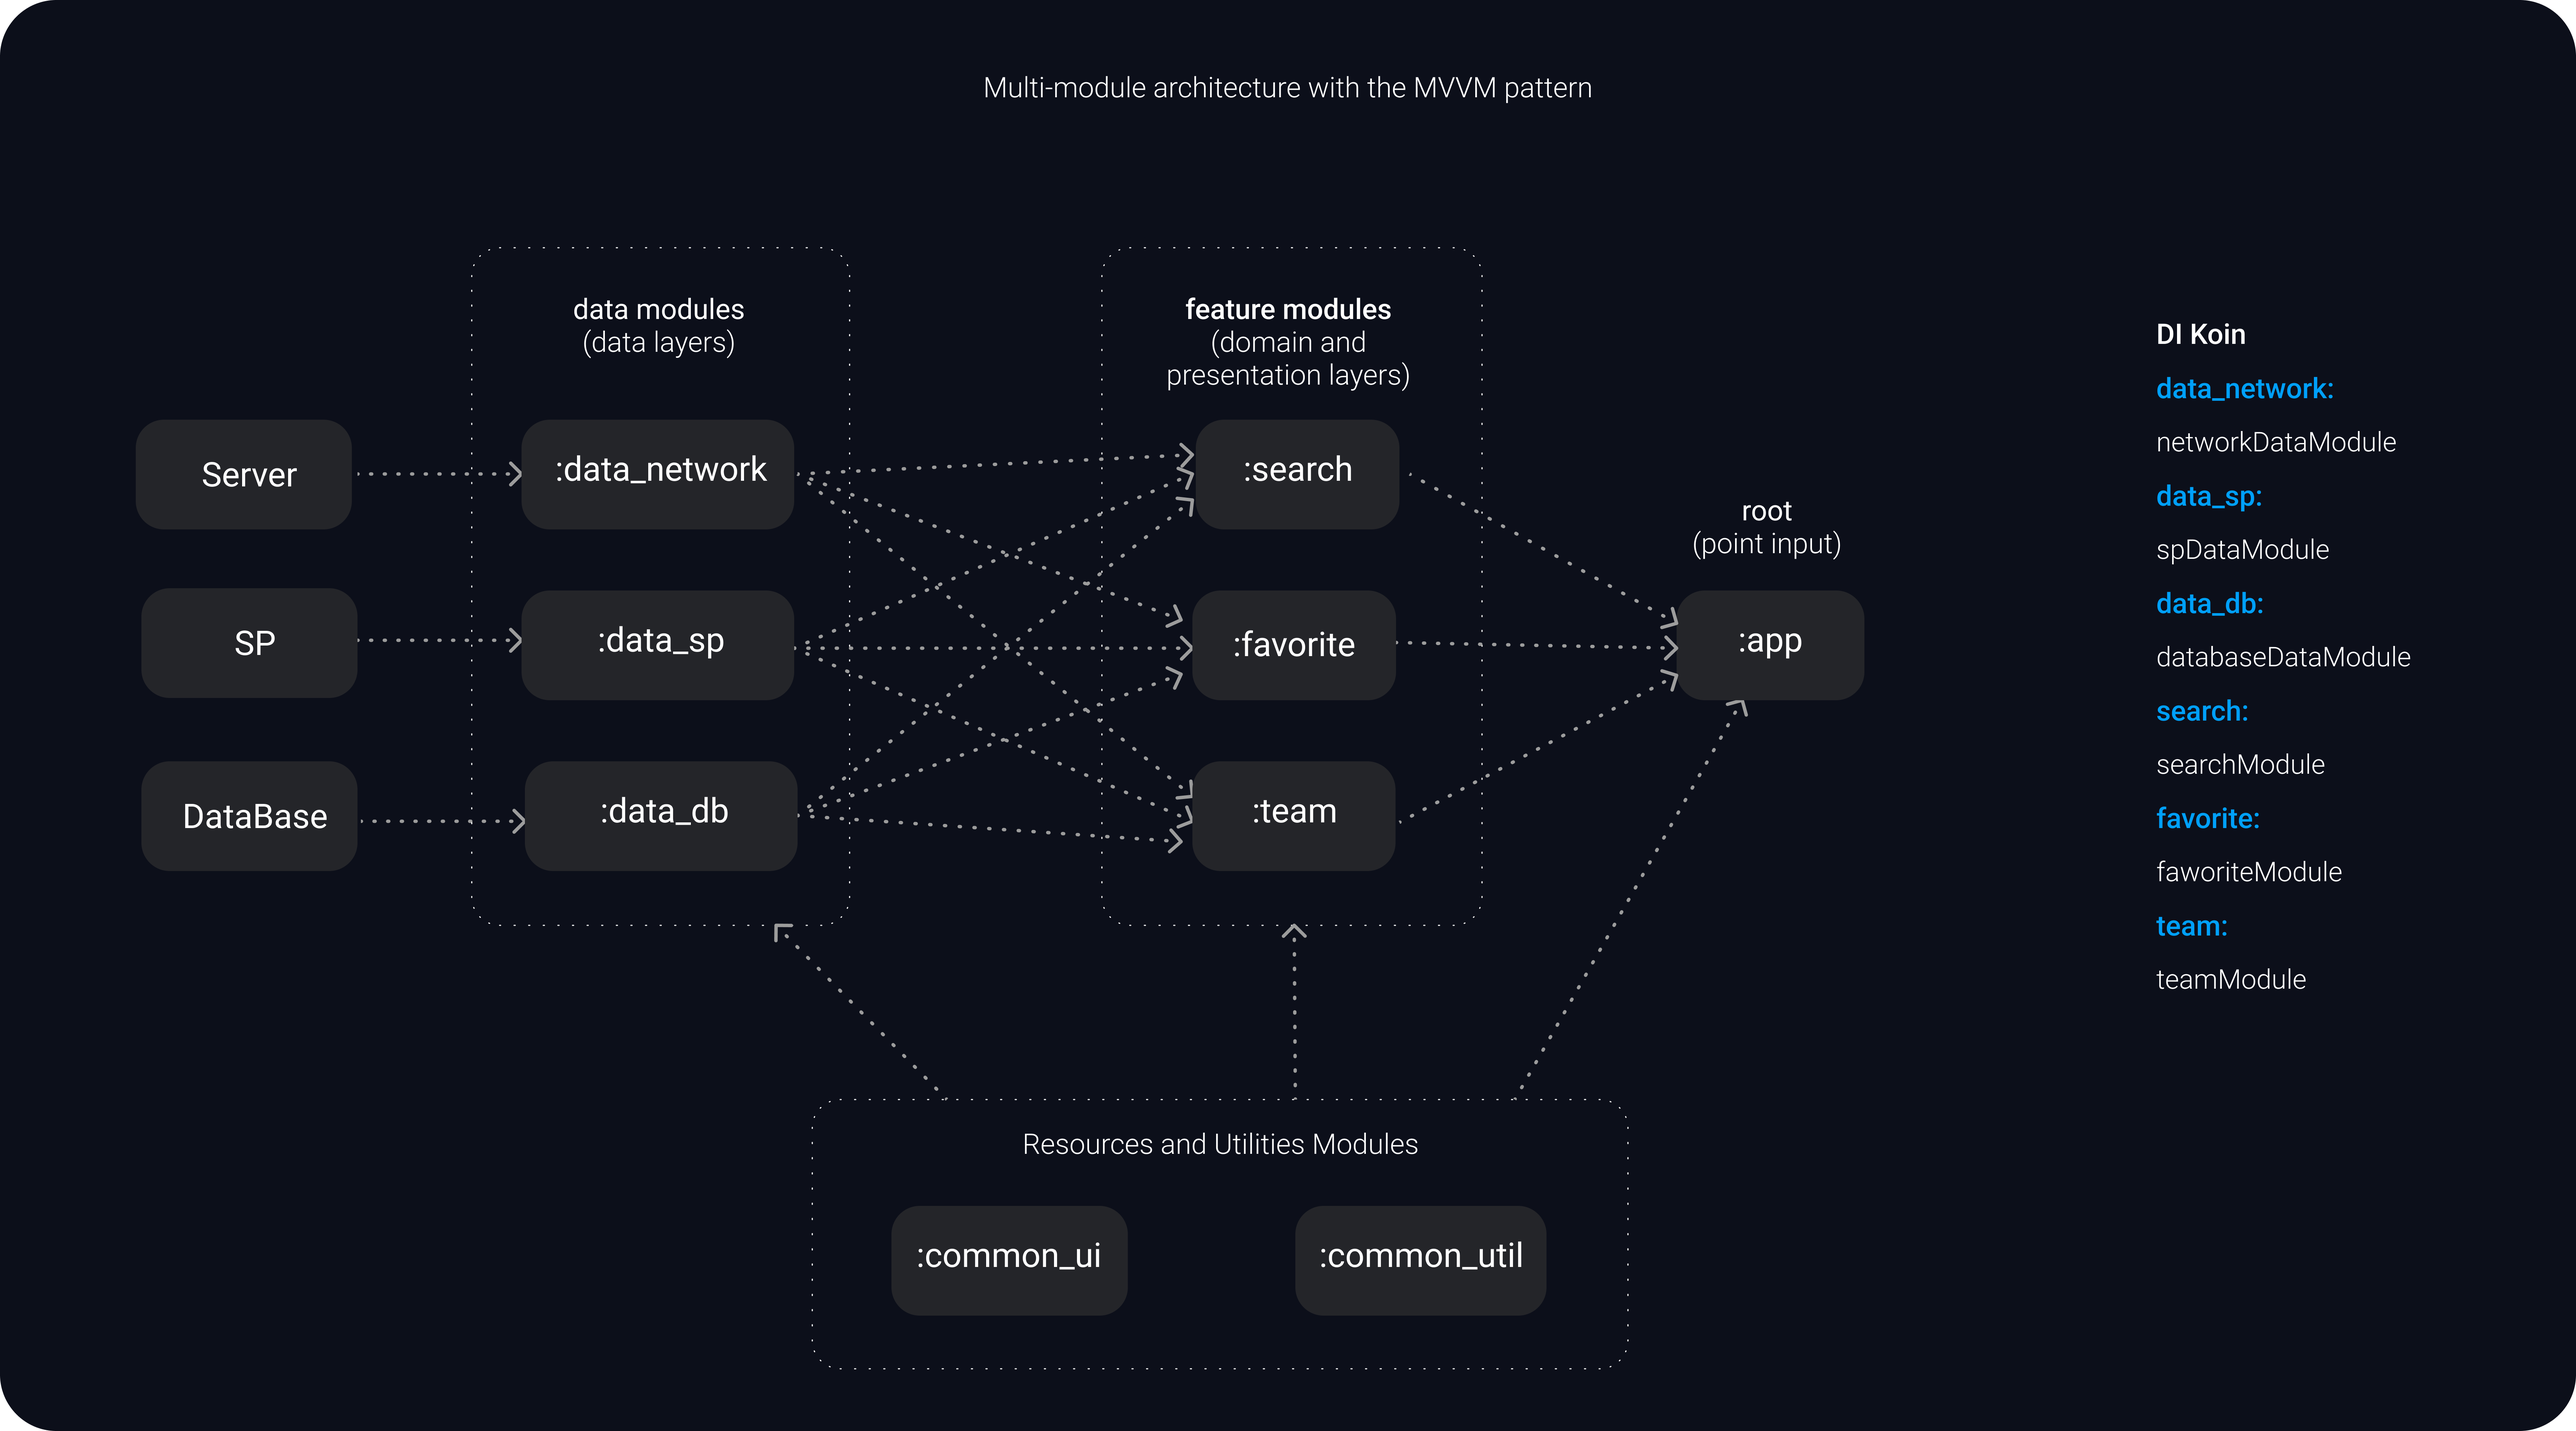
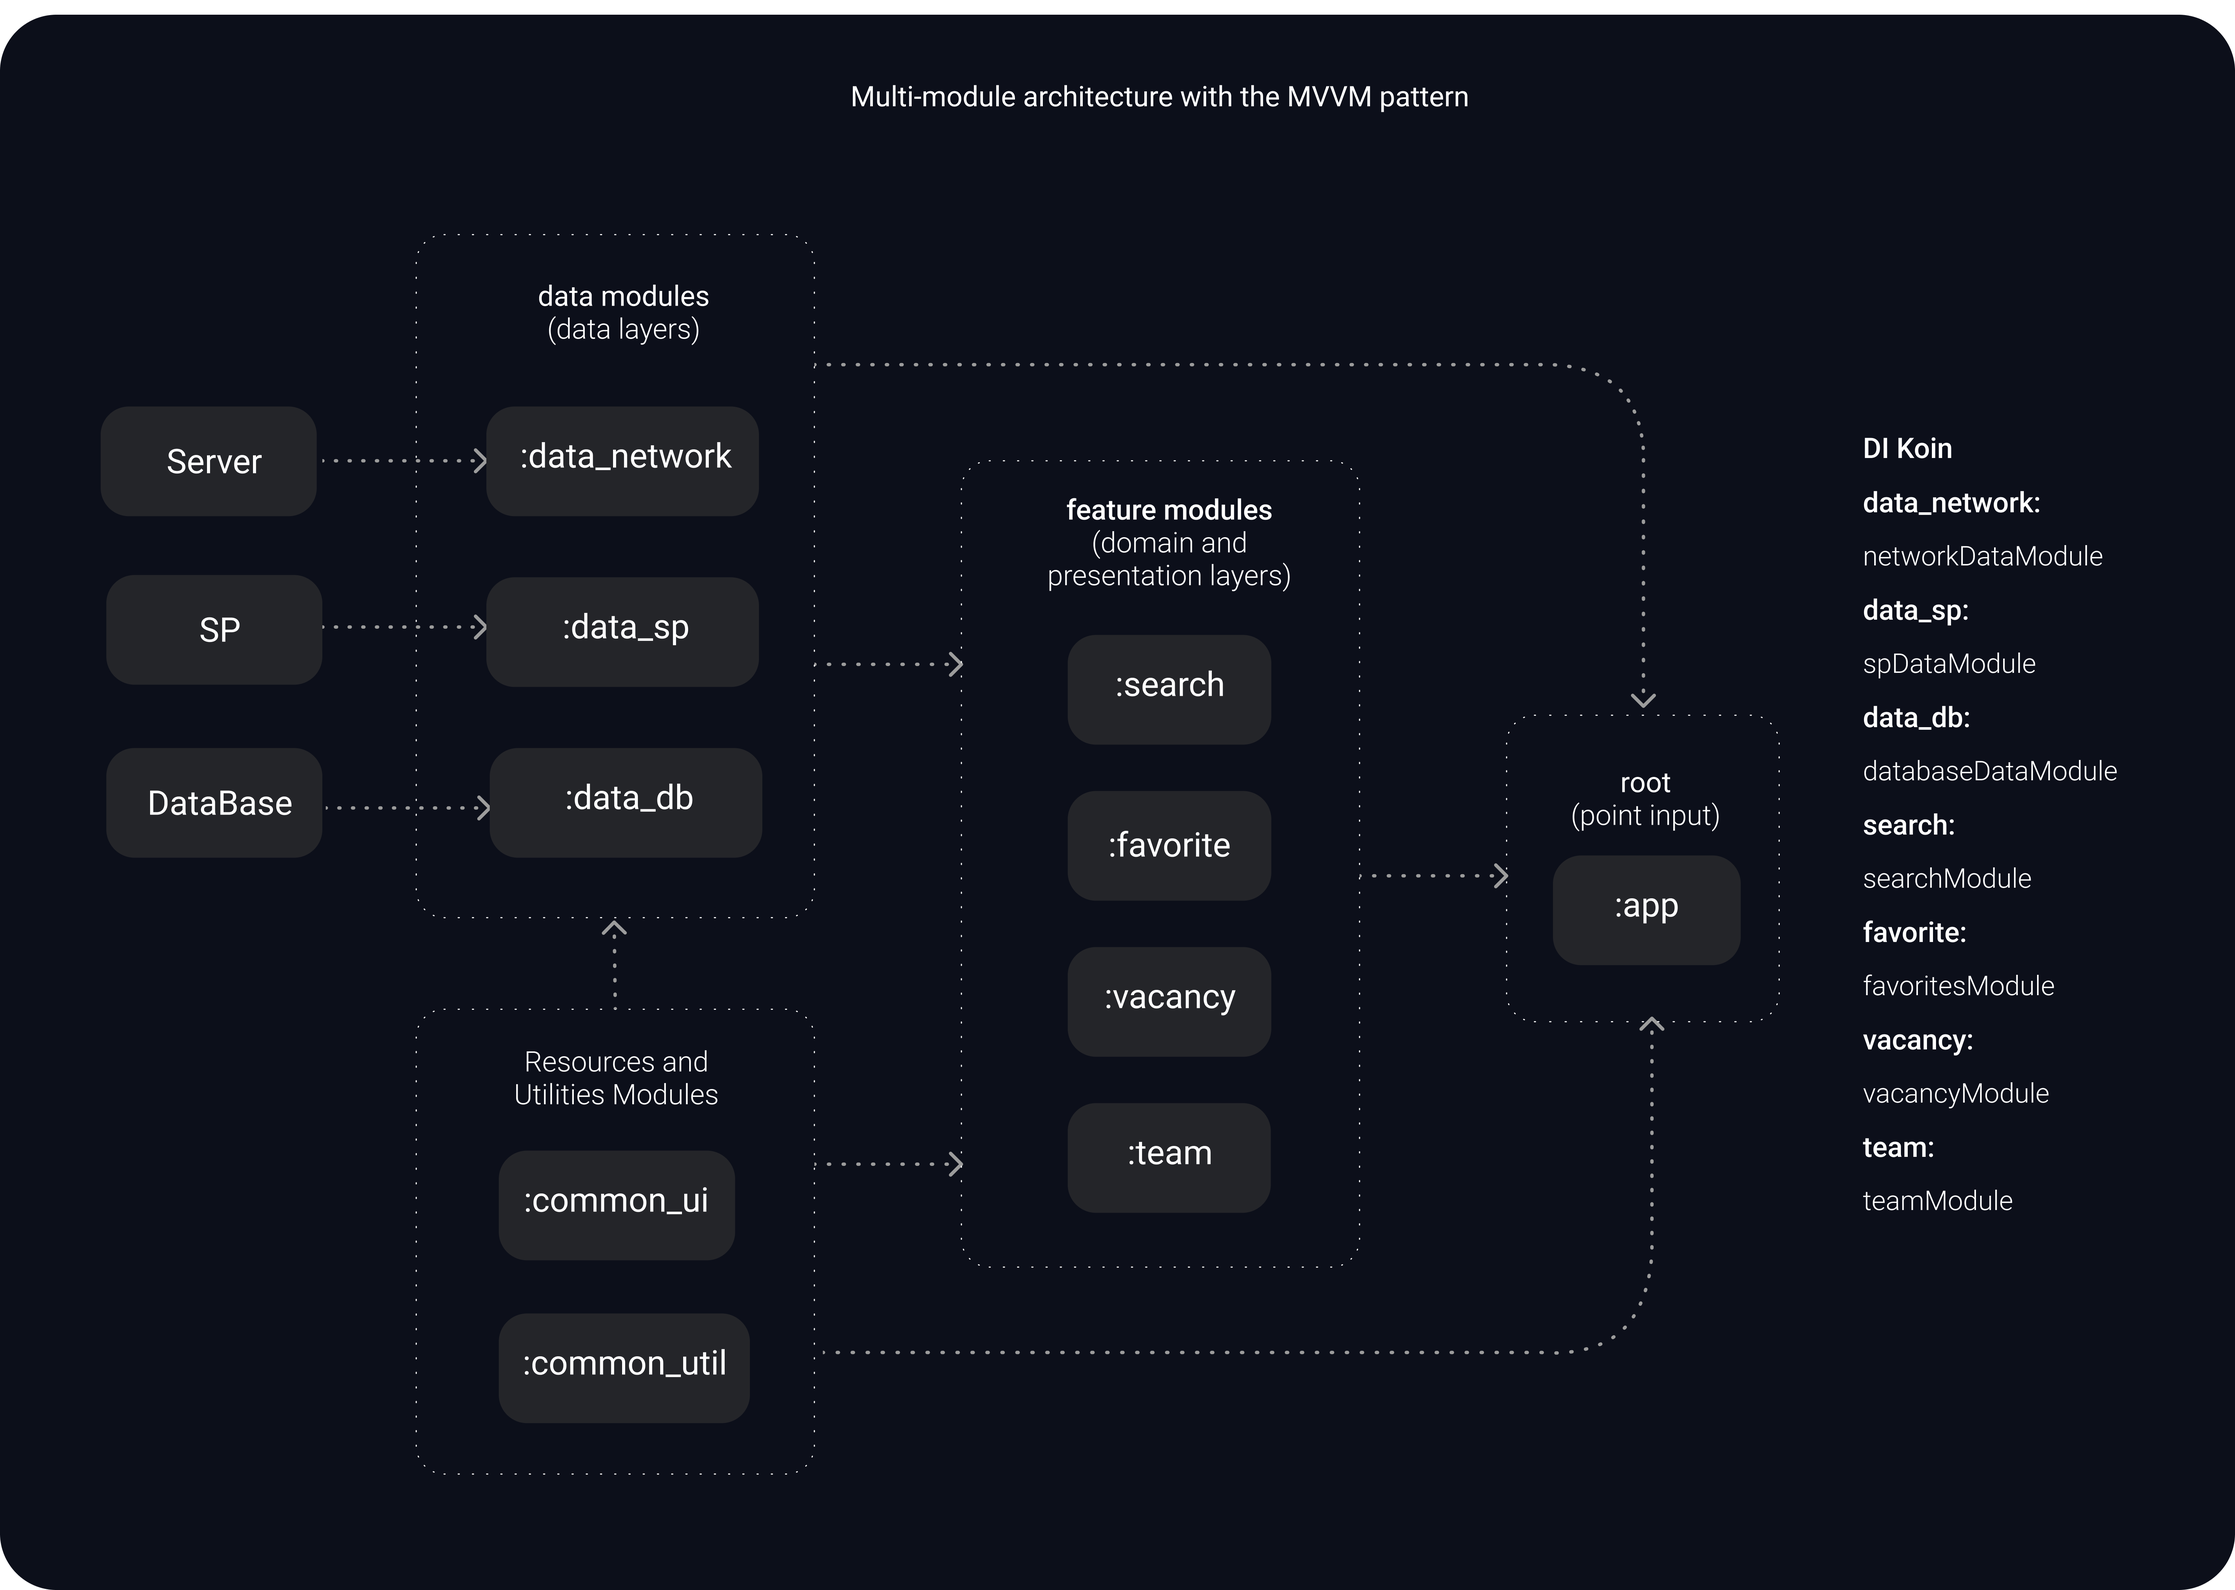
Make feature vacancy

diff --git a/vacancy/src/main/java/ru/practicum/android/diploma/vacancy/presentation/ui/VacancyFragment.kt b/vacancy/src/main/java/ru/practicum/android/diploma/vacancy/presentation/ui/VacancyFragment.kt
@@ -1,0 +1,36 @@
+package ru.practicum.android.diploma.vacancy.presentation.ui
+
+import android.os.Bundle
+import androidx.fragment.app.Fragment
+import android.view.LayoutInflater
+import android.view.View
+import android.view.ViewGroup
+import androidx.navigation.fragment.findNavController
+import ru.practicum.android.diploma.vacancy.databinding.FragmentVacancyBinding
+
+class VacancyFragment : Fragment() {
+
+    private var _binding: FragmentVacancyBinding? = null
+    private val binding get() = _binding!!
+
+    override fun onCreateView(
+        inflater: LayoutInflater,
+        container: ViewGroup?,
+        savedInstanceState: Bundle?
+    ): View? {
+        _binding = FragmentVacancyBinding.inflate(inflater, container, false)
+        return binding.root
+    }
+
+    override fun onViewCreated(view: View, savedInstanceState: Bundle?) {
+        super.onViewCreated(view, savedInstanceState)
+        binding.buttonLeftVacancy.setOnClickListener {
+            findNavController().navigateUp()
+        }
+    }
+
+    override fun onDestroyView() {
+        super.onDestroyView()
+        _binding = null
+    }
+}

diff --git a/vacancy/src/androidTest/java/ru/practicum/android/diploma/vacancy/ExampleInstrumentedTest.kt b/vacancy/src/androidTest/java/ru/practicum/android/diploma/vacancy/ExampleInstrumentedTest.kt
@@ -1,0 +1,24 @@
+package ru.practicum.android.diploma.vacancy
+
+import androidx.test.platform.app.InstrumentationRegistry
+import androidx.test.ext.junit.runners.AndroidJUnit4
+
+import org.junit.Test
+import org.junit.runner.RunWith
+
+import org.junit.Assert.*
+
+/**
+ * Instrumented test, which will execute on an Android device.
+ *
+ * See [testing documentation](http://d.android.com/tools/testing).
+ */
+@RunWith(AndroidJUnit4::class)
+class ExampleInstrumentedTest {
+    @Test
+    fun useAppContext() {
+        // Context of the app under test.
+        val appContext = InstrumentationRegistry.getInstrumentation().targetContext
+        assertEquals("ru.practicum.android.diploma.vacancy.test", appContext.packageName)
+    }
+}

diff --git a/app/src/main/java/ru/practicum/android/diploma/root/App.kt b/app/src/main/java/ru/practicum/android/diploma/root/App.kt
@@ -9,6 +9,7 @@ import ru.practicum.android.diploma.data.sp.di.spDataModule
 import ru.practicum.android.diploma.favorites.di.favoritesModule
 import ru.practicum.android.diploma.search.di.searchModule
 import ru.practicum.android.diploma.team.di.teamModule
+import ru.practicum.android.diploma.vacancy.di.vacancyModule
 
 class App : Application() {
 
@@ -23,6 +24,7 @@ class App : Application() {
                 dbDataModule,
                 searchModule,
                 favoritesModule,
+                vacancyModule,
                 teamModule,
             )
         }

diff --git a/vacancy/src/test/java/ru/practicum/android/diploma/vacancy/ExampleUnitTest.kt b/vacancy/src/test/java/ru/practicum/android/diploma/vacancy/ExampleUnitTest.kt
@@ -1,0 +1,17 @@
+package ru.practicum.android.diploma.vacancy
+
+import org.junit.Test
+
+import org.junit.Assert.*
+
+/**
+ * Example local unit test, which will execute on the development machine (host).
+ *
+ * See [testing documentation](http://d.android.com/tools/testing).
+ */
+class ExampleUnitTest {
+    @Test
+    fun addition_isCorrect() {
+        assertEquals(4, 2 + 2)
+    }
+}

diff --git a/vacancy/src/main/java/ru/practicum/android/diploma/vacancy/di/VacancyModule.kt b/vacancy/src/main/java/ru/practicum/android/diploma/vacancy/di/VacancyModule.kt
@@ -1,0 +1,6 @@
+package ru.practicum.android.diploma.vacancy.di
+
+import org.koin.dsl.module
+
+val vacancyModule = module {
+}
